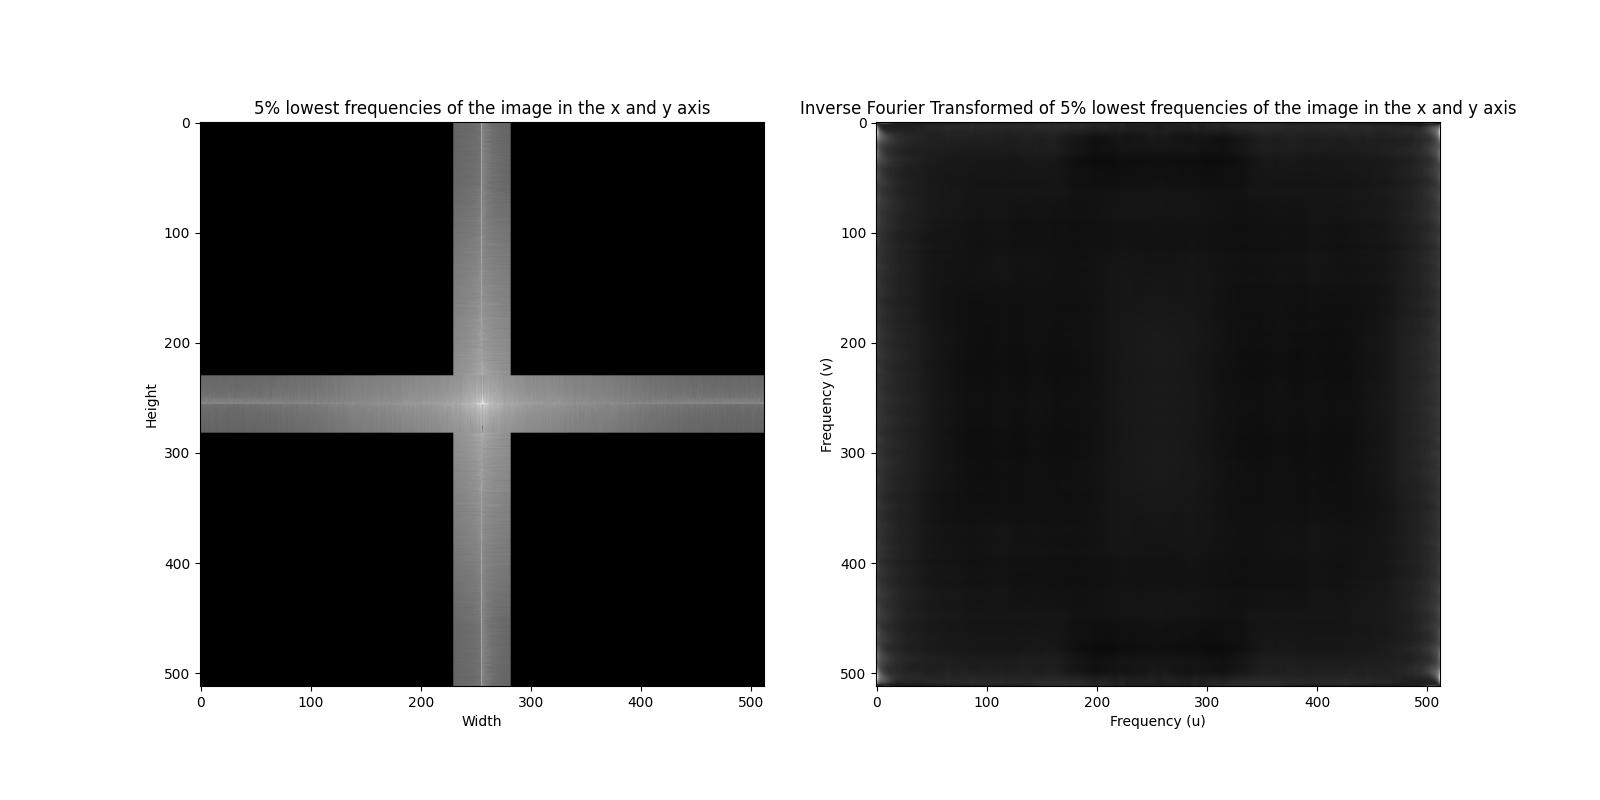
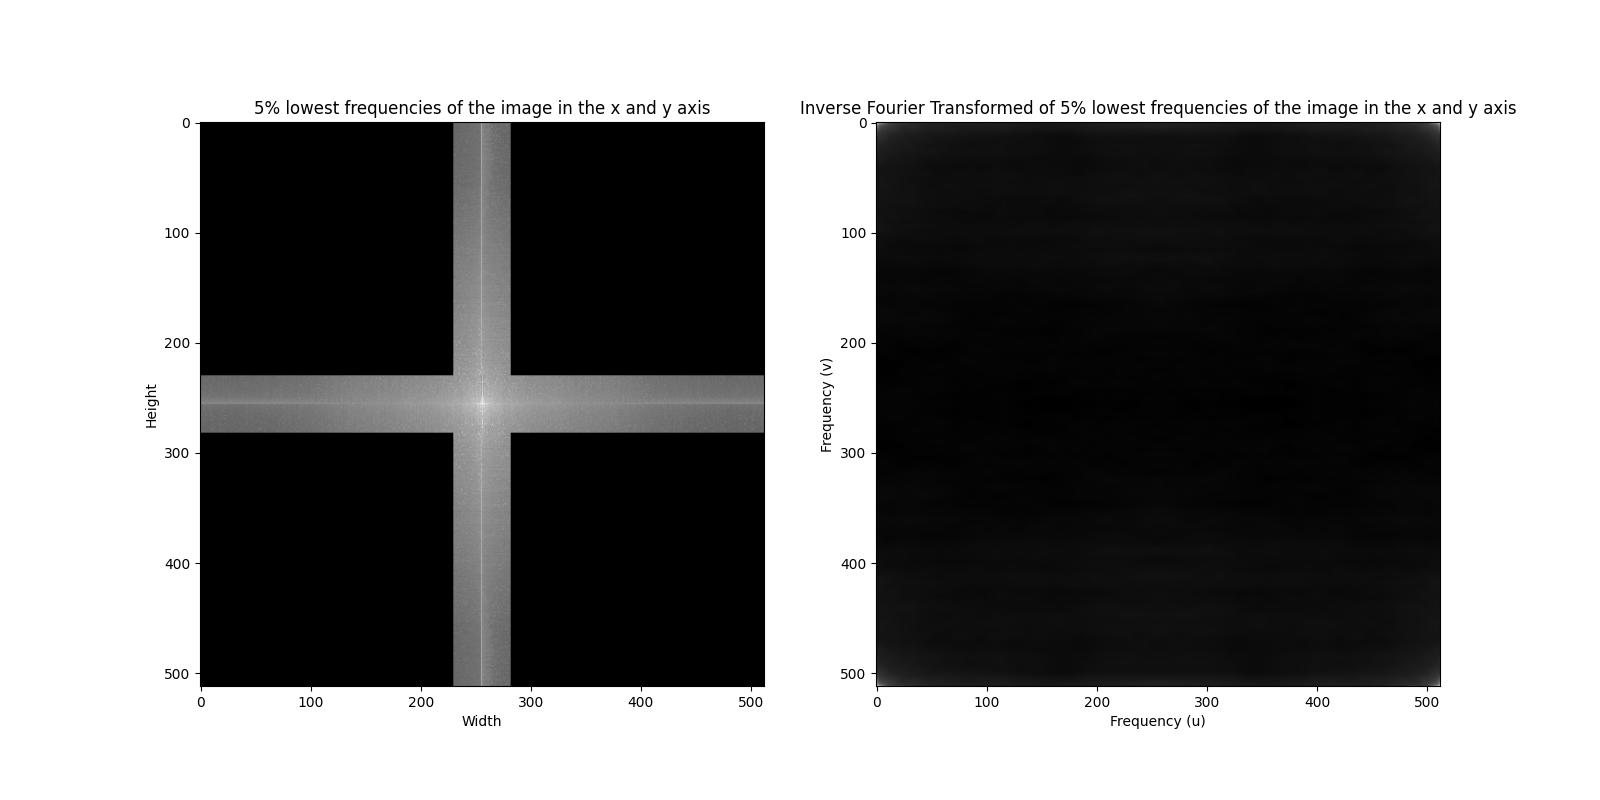
frequency image modified

Changed region(s): [[0.5312, 0.1562, 0.5938, 0.8438], [0.875, 0.1562, 0.9062, 0.8438]]

diff --git a/frequency_in_images/main.py b/frequency_in_images/main.py
@@ -31,7 +31,8 @@ def compare_images(img1,img2, **args):
   plt.title(args['title2'])
   plt.xlabel(args['xlabel2'])
   plt.ylabel(args['ylabel2'])
-  plt.savefig(args['saveSrc'])
+  if( args['save'] ):
+    plt.savefig(args['saveSrc'])
   plt.show()
 
 
@@ -52,7 +53,8 @@ log_image = logarithmic_display_of_image(fshift);
 #                 xlabel1='size', ylabel1='size',
 #                 xlabel2='u',
 #                 ylabel2='v',
-#                 saveSrc='./frequency_in_images/outPut.jpg');
+#                 saveSrc='./frequency_in_images/outPut.jpg',
+#                 save=True);
 
 
 
@@ -70,11 +72,11 @@ y_axis_sorted = np.sort(I1_f, axis=0)
 # Create an output image initialized with zeros
 output_image_fft = np.zeros(I1_f.shape)
 
-# Take the partitions
-output_image_fft[:, :x_partition] = x_axis_sorted[:, :x_partition]
-output_image_fft[:, -x_partition:] = x_axis_sorted[:, -x_partition:]
-output_image_fft[:y_partition, :]  = y_axis_sorted[:y_partition, :]
-output_image_fft[-y_partition:, :] =  y_axis_sorted[-y_partition:, :]
+# Take the magnitude of complex values and assign them to output_image_fft
+output_image_fft[:, :x_partition] = np.abs(x_axis_sorted[:, :x_partition])
+output_image_fft[:, -x_partition:] = np.abs(x_axis_sorted[:, -x_partition:])
+output_image_fft[:y_partition, :] = np.abs(y_axis_sorted[:y_partition, :])
+output_image_fft[-y_partition:, :] = np.abs(y_axis_sorted[-y_partition:, :])
 
 output_image_fft_shift = np.fft.fftshift(output_image_fft)
 # plt.imshow(logarithmic_display_of_image(output_image_fft_shift ),cmap="gray")
@@ -86,13 +88,40 @@ output_image_restores= np.fft.ifft2(output_image_SHIFTED_back)
 
 
 # # Plot the original image and the transformed image
-# disply = logarithmic_display_of_image(output_image_fft_shift )
-# compare_images(disply, np.abs(output_image_restores), 
-#                 title1='5% lowest frequencies of the image in the x and y axis', 
-#                 title2='Inverse Fourier Transformed of 5% lowest frequencies of the image in the x and y axis',
-#                 xlabel1='Width', ylabel1='Height',
-#                 xlabel2='Frequency (u)', ylabel2='Frequency (v)',
-#                 saveSrc='./outPut2.jpg')
+disply = logarithmic_display_of_image(output_image_fft_shift )
+compare_images(disply, output_image_restores, 
+                title1='5% lowest frequencies of the image in the x and y axis', 
+                title2='Inverse Fourier Transformed of 5% lowest frequencies of the image in the x and y axis',
+                xlabel1='Width', ylabel1='Height',
+                xlabel2='Frequency (u)', ylabel2='Frequency (v)',
+                saveSrc='./outPut2.jpg',
+                save=True)
 
+
+
+
+x_axis_sum = np.sum(I1_f, axis=1)
+y_axis_sum = np.sum(I1_f, axis=0)
+
+
+
+
+# Assuming you have already computed the sums along the x-axis and y-axis
+# x_axis_sum and y_axis_sum contain the sums of values along each row and column, respectively
+
+# Sort the sums along the x-axis and y-axis
+sorted_x_indices = np.argsort(x_axis_sum)[::-1]  # Sort in descending order
+sorted_y_indices = np.argsort(y_axis_sum)[::-1]  # Sort in descending order
+
+# Calculate the number of columns and rows corresponding to the top 5%
+top_5_percent_columns = int(0.05 * len(sorted_x_indices))
+top_5_percent_rows = int(0.05 * len(sorted_y_indices))
+
+# Select the top 5% dominant columns and rows
+top_5_percent_dominant_columns = sorted_x_indices[:top_5_percent_columns]
+top_5_percent_dominant_rows = sorted_y_indices[:top_5_percent_rows]
+
+# Now top_5_percent_dominant_columns contains the indices of the top 5% dominant columns
+# and top_5_percent_dominant_rows contains the indices of the top 5% dominant rows
 
 
